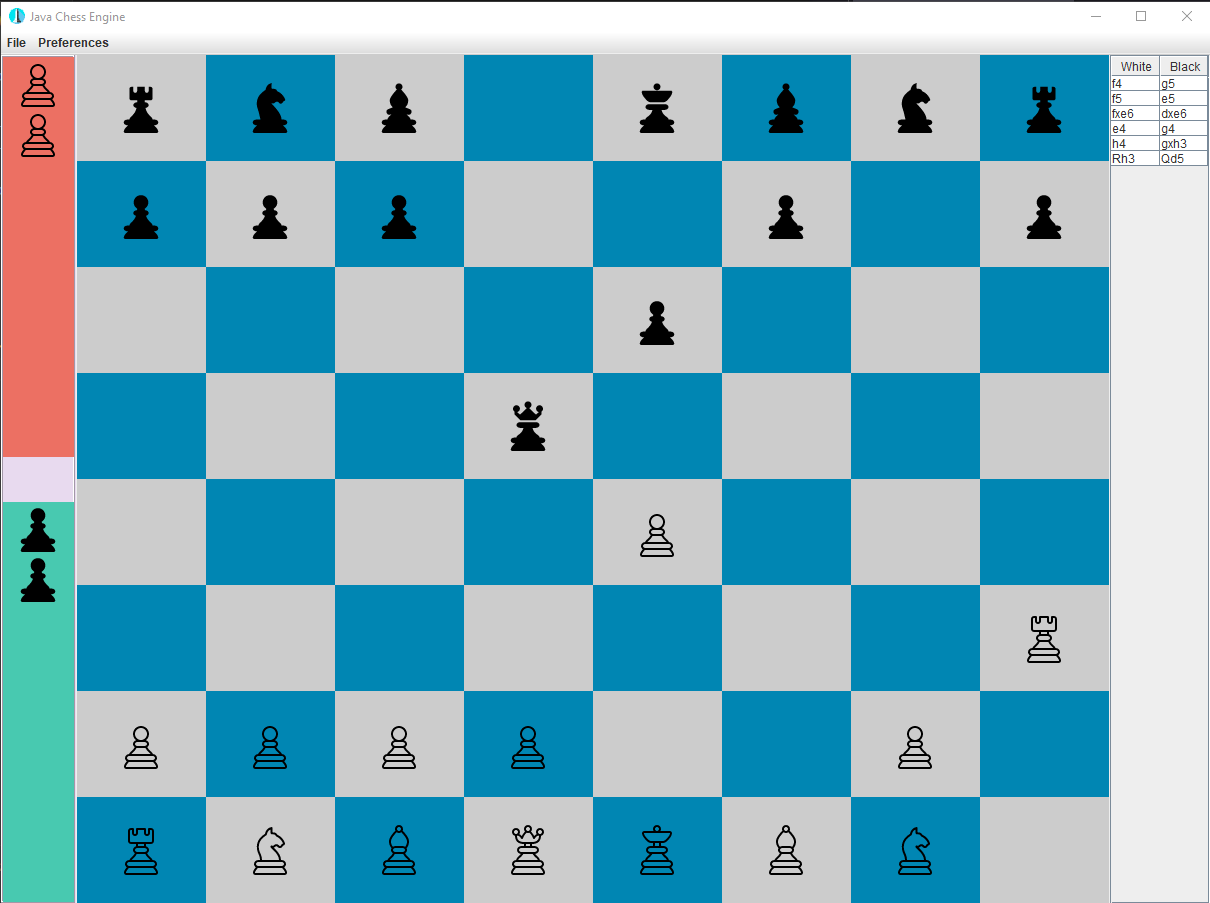
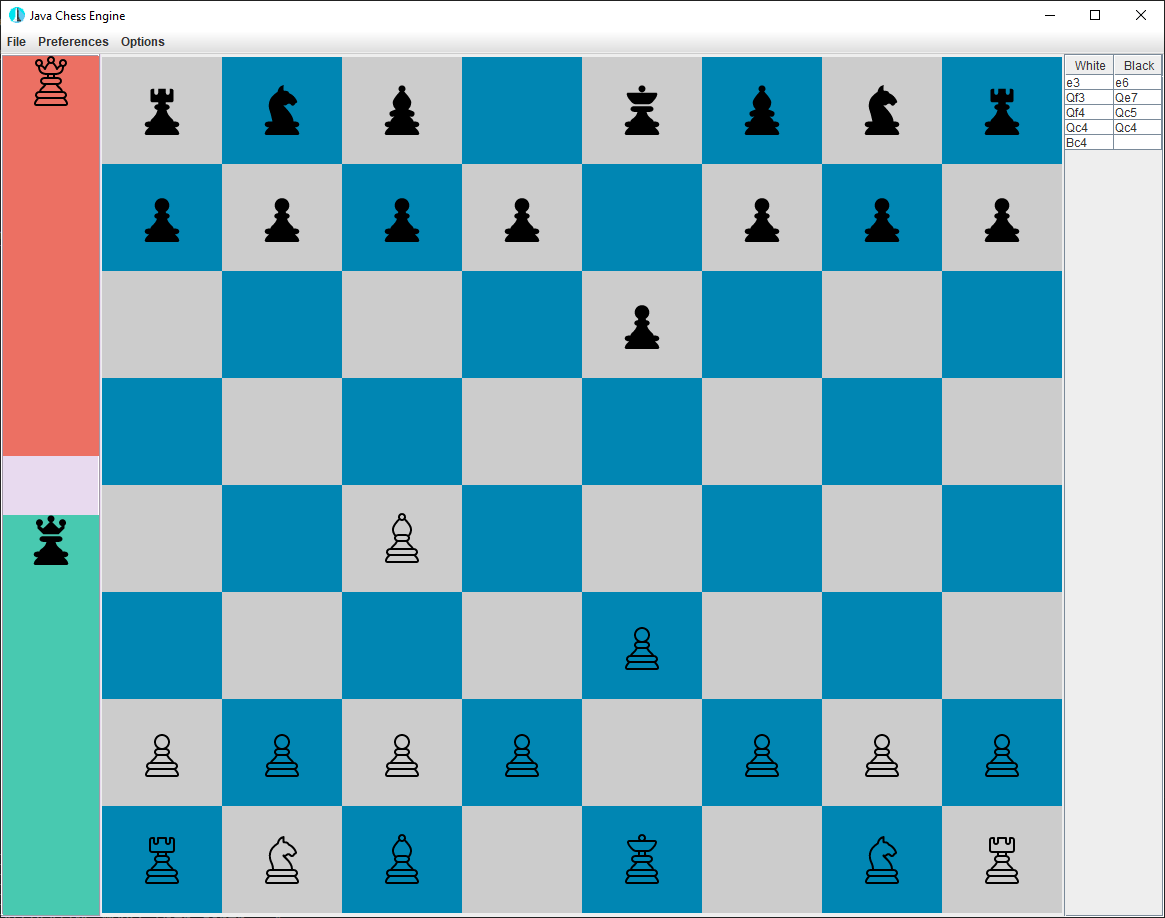
Added game reset functionality and updated README.md

diff --git a/Chess_Game/src/com/chess/gui/Table.java b/Chess_Game/src/com/chess/gui/Table.java
@@ -144,6 +144,22 @@ public class Table extends Observable{
         });
 
         optionsMenu.add(setupItem);
+
+        // Create game reset 
+        final JMenuItem resetItem = new JMenuItem("Reset Game");
+        resetItem.addActionListener(new ActionListener() {
+            @Override
+            public void actionPerformed(ActionEvent e){
+                Table.get().chessBoard = Board.createInitialBoard();
+                Table.get().boardPanel.drawBoard(Table.get().chessBoard);
+                Table.get().moveLog.clear();
+                Table.get().capturePanel.redo(Table.get().moveLog);
+                Table.get().historyPanel.redo(Table.get().chessBoard, 
+                                              Table.get().moveLog);
+            }
+        });
+        optionsMenu.add(resetItem);
+
         return optionsMenu;
     }
 

diff --git a/Chess_Game/src/com/chess/gui/CapturedPiecesPanel.java b/Chess_Game/src/com/chess/gui/CapturedPiecesPanel.java
@@ -31,7 +31,7 @@ public class CapturedPiecesPanel extends JPanel{
     private BoardDirection boardDirection;
 
     private static final EtchedBorder PANEL_BORDER = new EtchedBorder(EtchedBorder.RAISED);
-    private static final Dimension PIECE_DIMS = new Dimension(75, 80);
+    private static final Dimension PIECE_DIMS = new Dimension(100, 100);
 
     public CapturedPiecesPanel(BoardDirection orientation){
         super(new BorderLayout());

diff --git a/Chess_Game/src/com/chess/JChess.java b/Chess_Game/src/com/chess/JChess.java
@@ -5,8 +5,7 @@ import com.chess.gui.Table;
 
 public class JChess {
     public static void main(String[] args){
-        Board board = Board.createInitialBoard(); 
-        System.out.println(board);
+        Board.createInitialBoard(); 
         Table.get().show(); 
     }
 }

diff --git a/Chess_Game/README.md b/Chess_Game/README.md
@@ -30,7 +30,7 @@ This chess engine implements all the standard rules of a chess game. With the ba
 In the top menu bar of the GUI, the `Preferences` option allows the user to flip the orientation of the board and a toggle to highlight the current legal moves on the chess board for the selected piece.
 The `File` section of the menu bar contains the `Load PGN File` and `Exit` options. However, only `Exit` option is implemented at this time.
 
-The `Setup Game` options in the `Options` menu allows the player to configure the player types (`HUMAN` or `COMPUTER`) for both white and black. Additionally, the AI difficulty can be adjusted by increasing the search depth (up to 5). Note however, large depth levels require more time for move calculations.
+The `Setup Game` options in the `Options` menu allows the player to configure the player types (`HUMAN` or `COMPUTER`) for both white and black. Additionally, the AI difficulty can be adjusted by increasing the search depth (up to 5). Note however, large depth levels require more time for move calculations. `Reset Game` option, as the name suggests, will reset the chess board to the initial state for new game.
 
 **Note: the user may cancel any selection by right-clicking on the mouse.**
 
